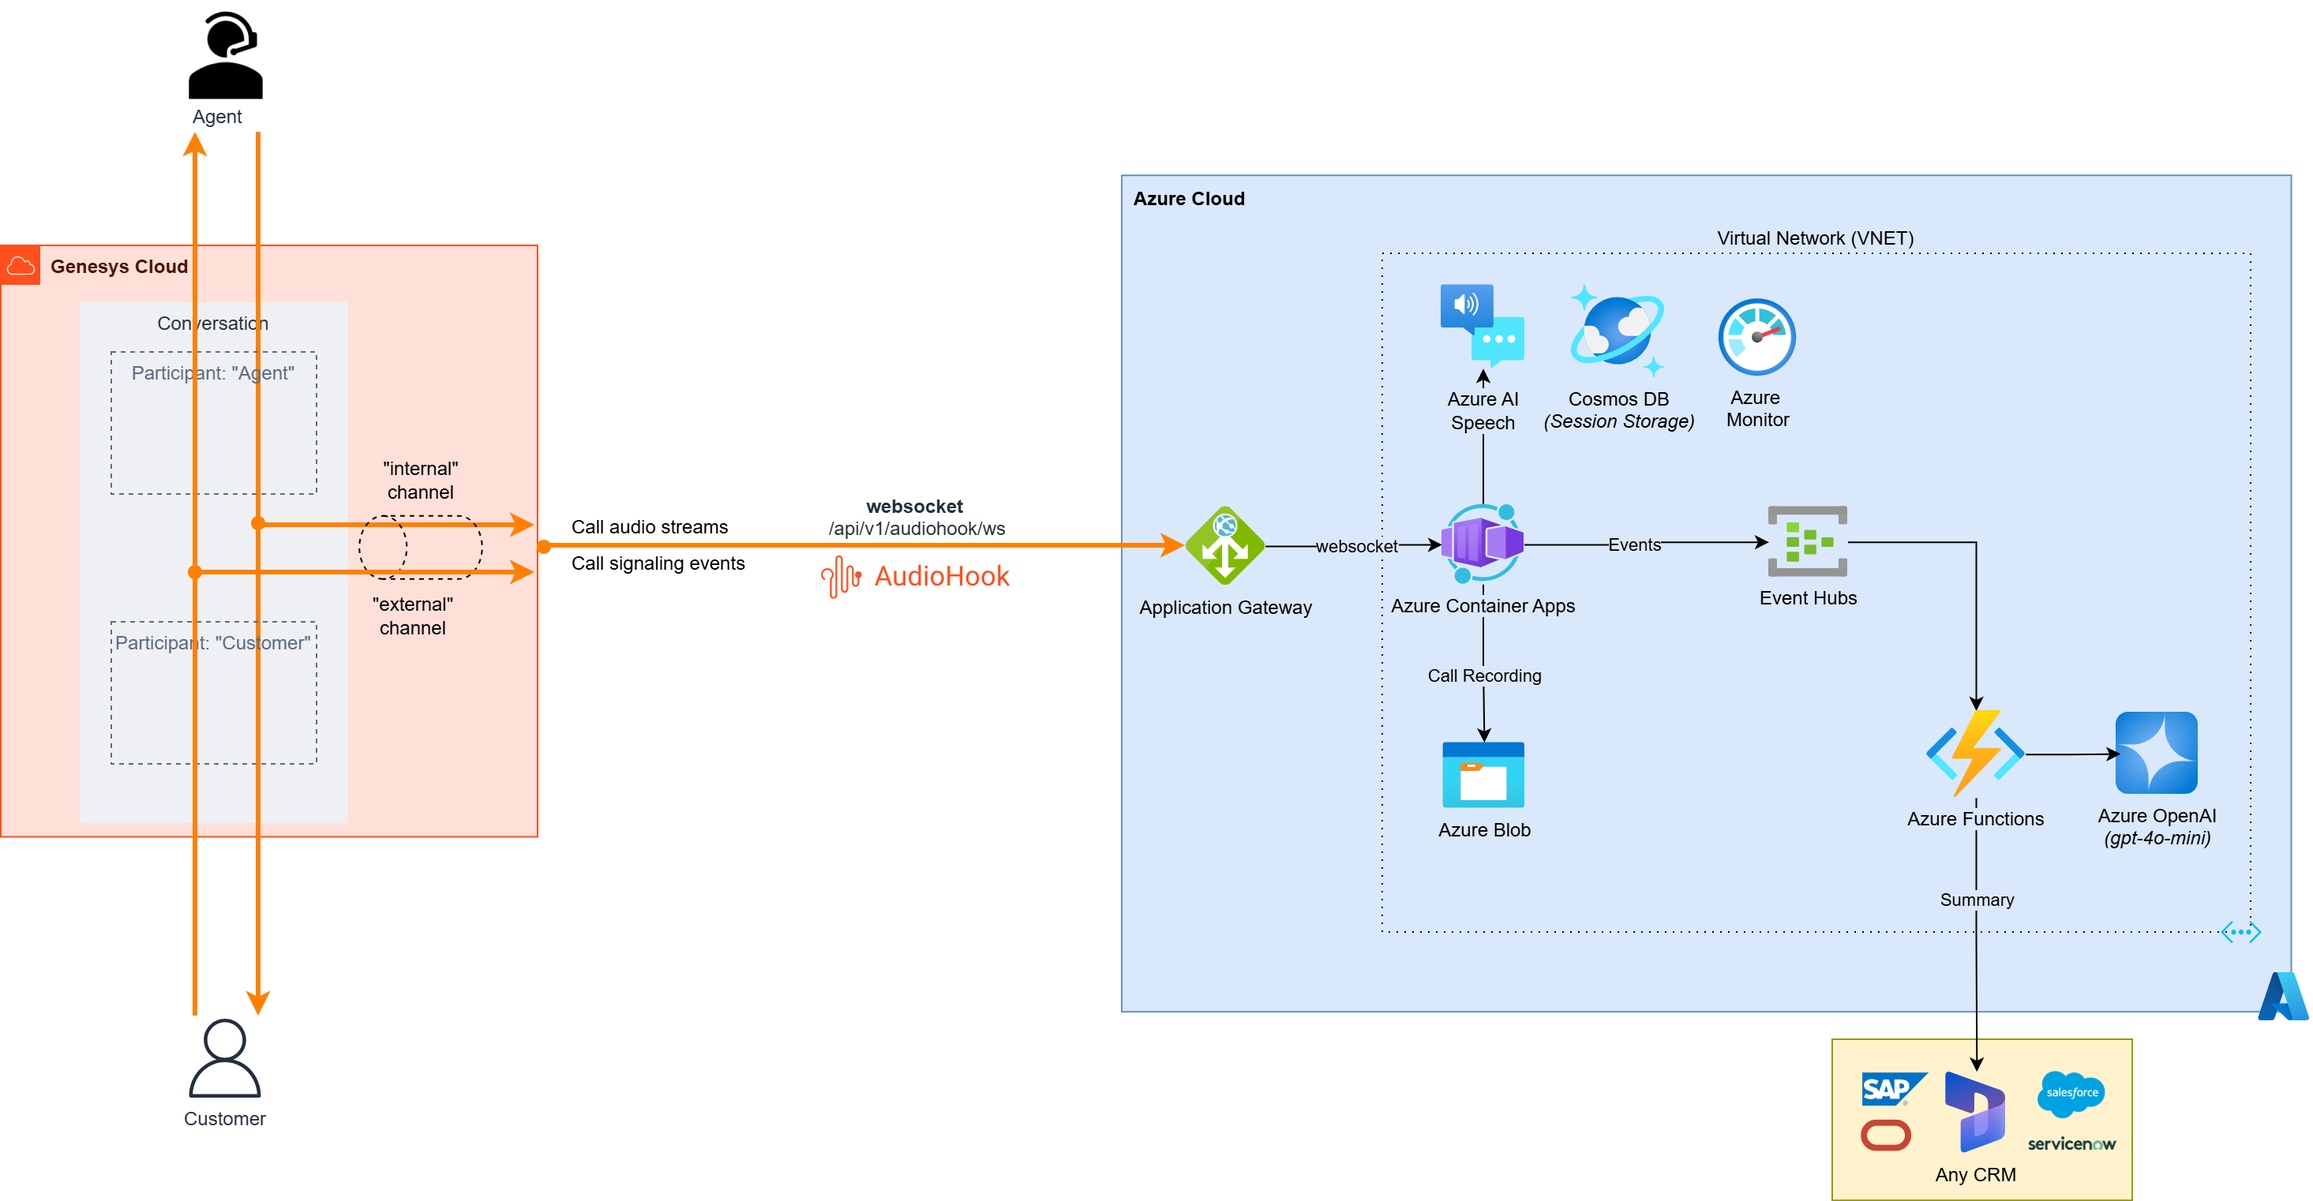
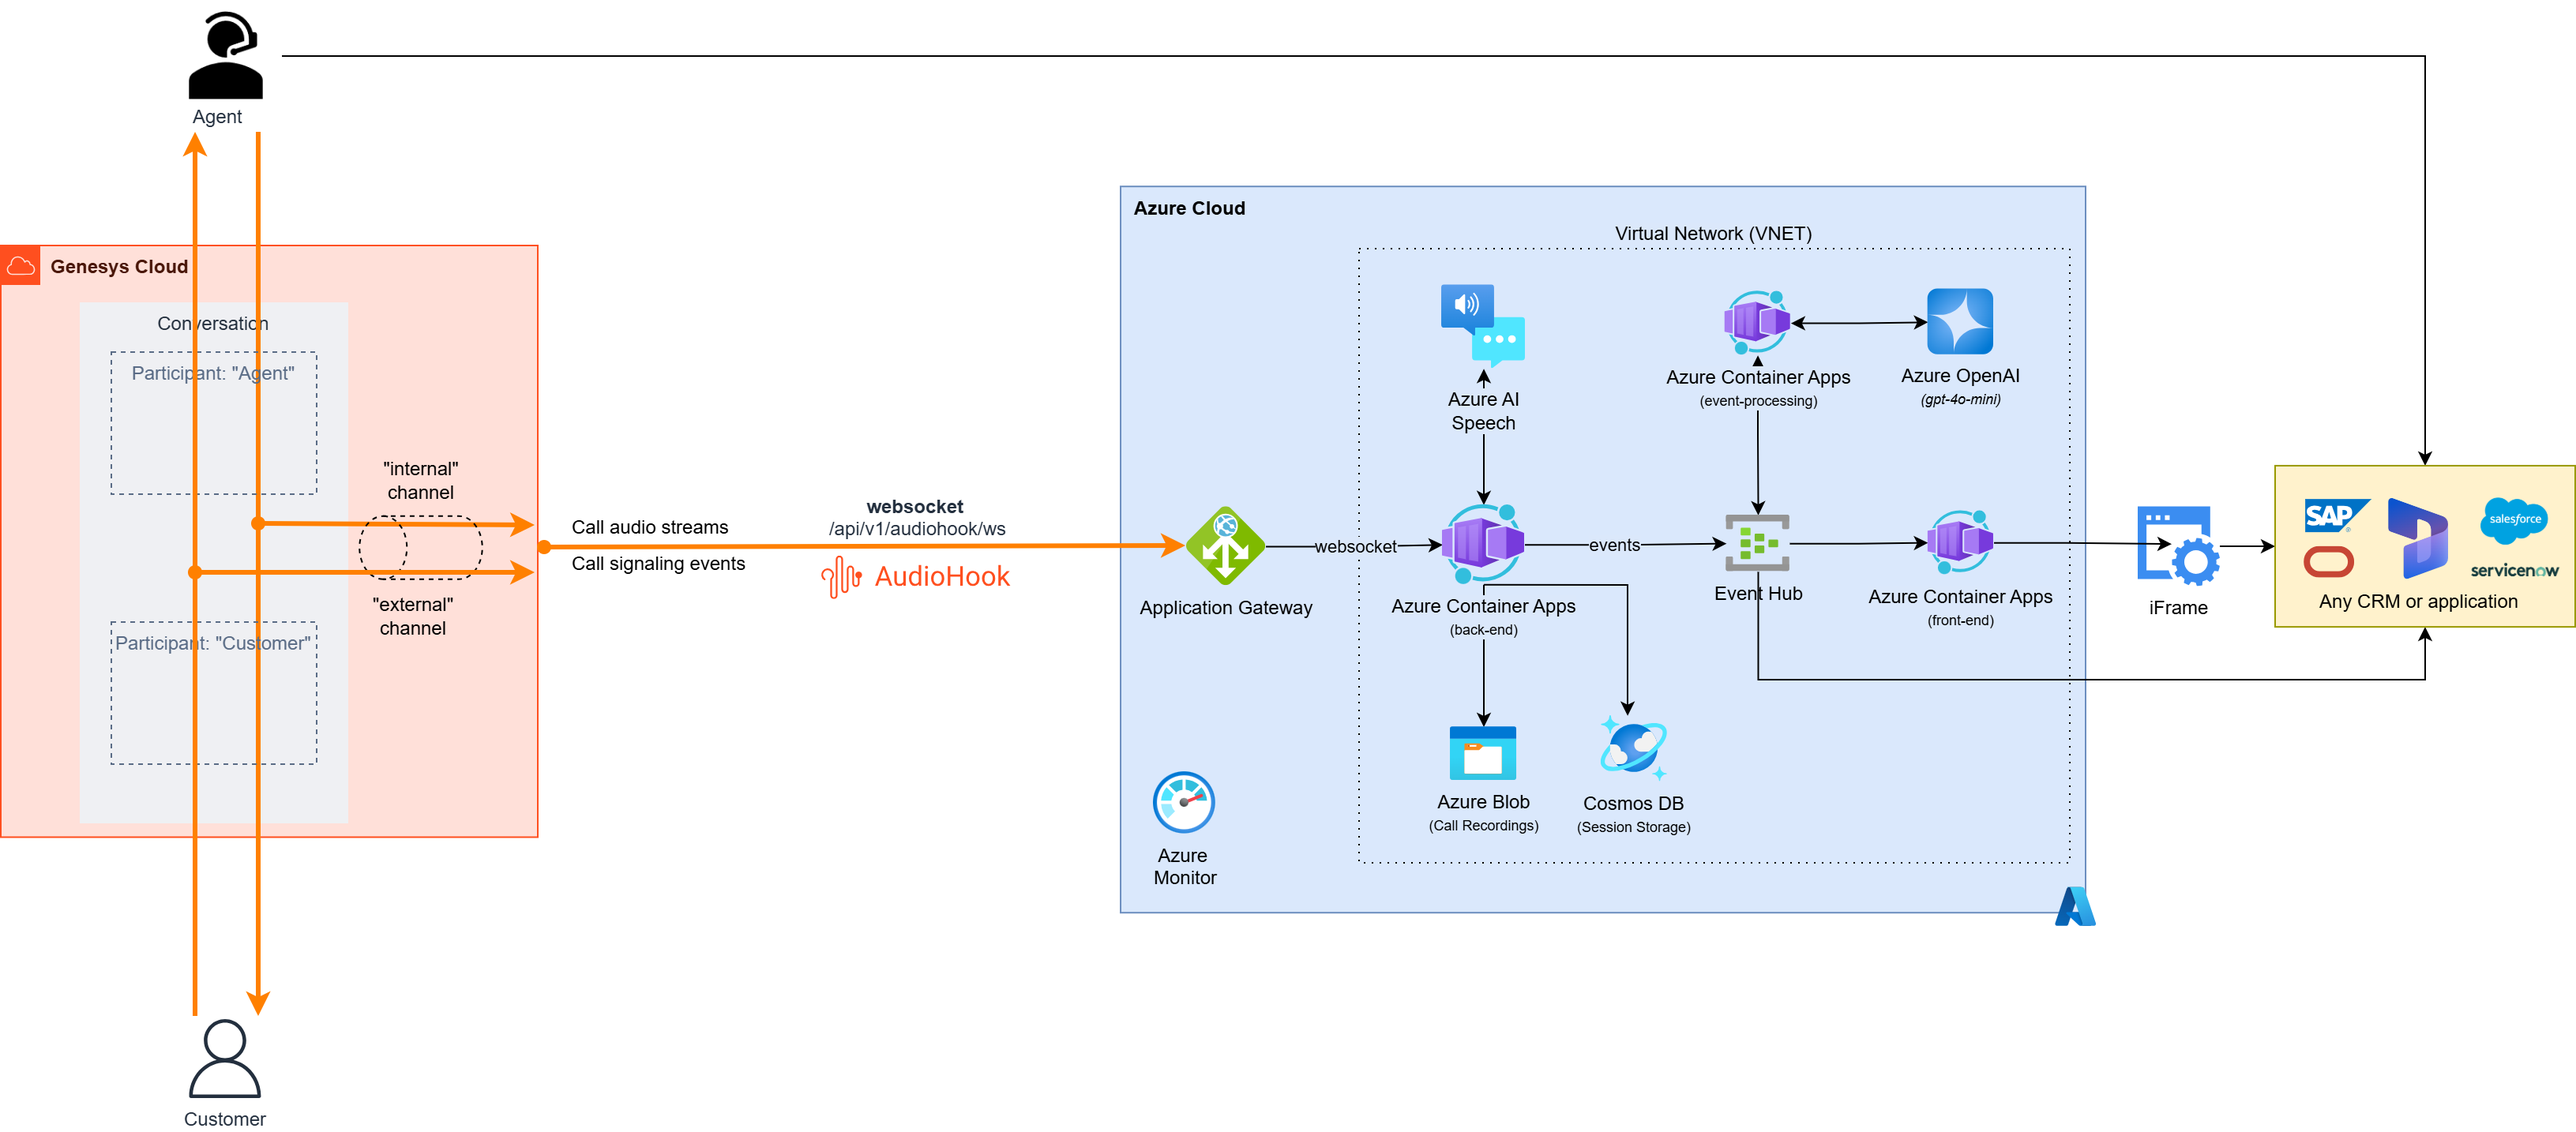
Improve code quality (#38)
* Update README

* Improve README

* Update architecture

* Improve README

Changed region(s): [[0.0, 0.0, 1.0, 1.0], [0.559, 0.6137, 0.6833, 0.7364], [0.559, 0.2455, 0.5901, 0.3989]]

diff --git a/README.md b/README.md
@@ -1,9 +1,20 @@
 # Sample: Genesys AudioHook to Azure
 
-A reference implementation of a WebSocket server on Azure, designed to integrate with [Genesys AudioHook protocol](https://developer.genesys.cloud/devapps/audiohook) for real-time transcription and summarization. This will implement the [AudioHook Monitor](https://help.mypurecloud.com/articles/audiohook-monitor-overview/) where the client streams audio to the server but the server does not send any results back to the client.
+A reference implementation of a WebSocket server on Azure, designed to integrate with [Genesys AudioHook protocol](https://developer.genesys.cloud/devapps/audiohook) for real-time transcription on Azure. This will implement the [AudioHook Monitor](https://help.mypurecloud.com/articles/audiohook-monitor-overview/) where the client streams audio to the server but the server does not send any results back to the client.
 
-- [Python WebSocket server](./server/python)
+This AudioHook server lets you use your own speech processing pipeline—including custom speech-to-text or generative audio models—while keeping data secure and easily integrating with other cloud-native apps.
 
-## Architecture
+Real-time transcripts unlock advanced call center analytics, powering live summarization, agent coaching, and instant question answering to enhance customer experience and operational efficiency.
+
+
+## Components
+
+AudioHook processing is decoupled from AI services, supporting flexible deployment, robust security, and easy integration with enterprise systems. The modular design allows horizontal scaling and rapid customization of the AI pipeline for evolving contact center needs.
+
+- [AudioHook WebSocket server (Python)](./server/python)
+- Real-time AI processing service (Python, Semantic Kernel) (_coming soon_)
+- Demo front-end (JavaScript, React) with back-end (Python) (_coming soon_)
+
+### Architecture
 
 ![Real-time architecture](./docs/images/real-time-architecture.png)

diff --git a/server/python/README.md b/server/python/README.md
@@ -96,7 +96,9 @@ gunicorn server:app
 
 ### Deploy to Azure
 
-This repository doesn't provide an infrastructure as code (IaC) solution for deploying the server to Azure. However, you can leverage the Azure CLI to deploy the server to Azure Container Apps. Run the command below to deploy the server to Azure Container Apps.
+This repository doesn't provide an infrastructure as code (IaC) solution for deploying the server to Azure yet. However, you can leverage the Azure CLI to deploy the server to Azure Container Apps. Run the command below to deploy the server to Azure Container Apps.
+
+You will need to seperately deploy additional services (e.g. Azure AI Speech, Azure CosmosDB) and add them to your environment variables during deployment.
 
 ```bash
 az containerapp up --resource-group your-resource-group \
